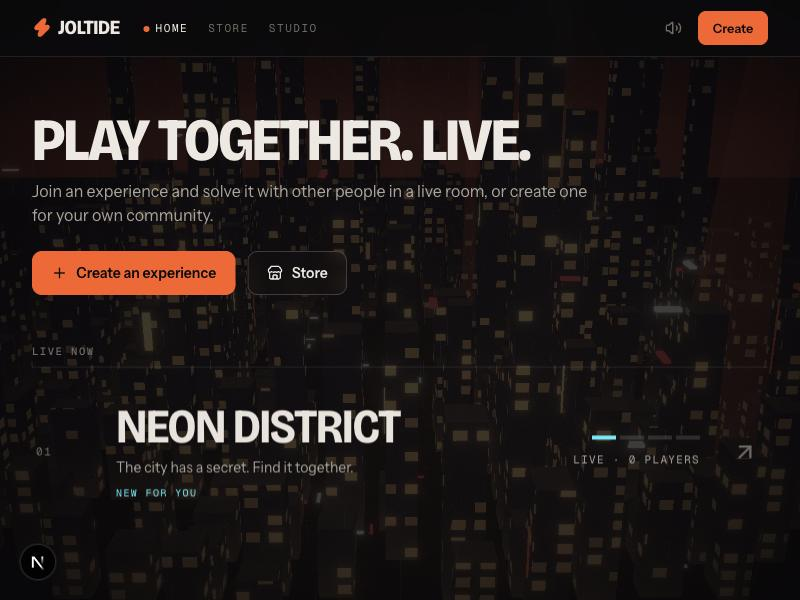
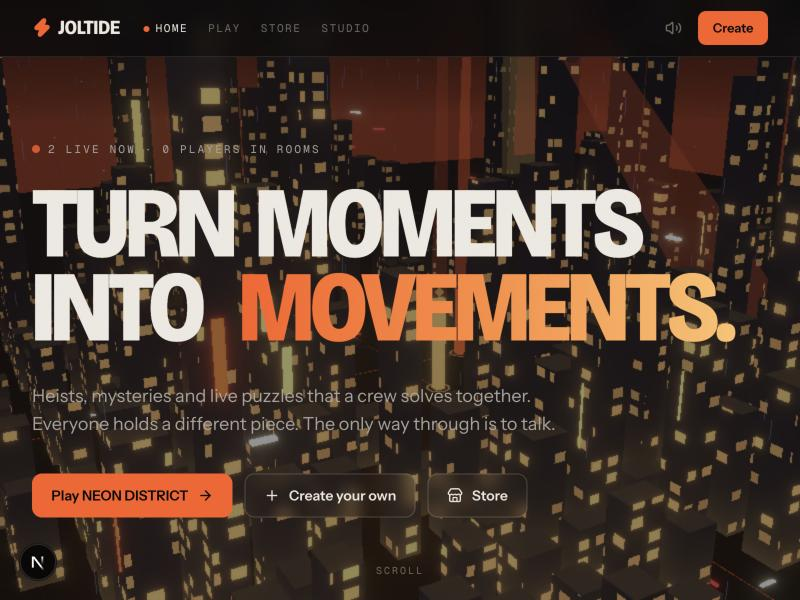
feat(landing): scroll-driven landing page at /, move live experiences to /play

diff --git a/src/components/Landing.tsx b/src/components/Landing.tsx
@@ -1,0 +1,331 @@
+"use client";
+import { motion, useMotionTemplate, useMotionValue, useReducedMotion, useScroll, useSpring, useTransform } from "framer-motion";
+import { ArrowRight, Clock, Eye, KeyRound, Plus, RotateCcw, Sparkles, Store, Users, Wrench } from "lucide-react";
+import Link from "next/link";
+import { useEffect, useState } from "react";
+import { burst } from "@/lib/confetti";
+import { play } from "@/lib/sfx";
+import type { ExperienceCard } from "@/lib/types";
+import RankedRows from "./RankedRows";
+import Scene3D from "./Scene3D";
+
+const TICKER = ["Crew heists", "Four roles", "One clock", "Live chat rooms", "Scheduled drops", "Proof badges", "OBS overlay", "AI world designer", "Remix the store"];
+
+const ROLES = [
+  { name: "Hacker", line: "Cracks the lock", icon: KeyRound, shard: "J" },
+  { name: "Driver", line: "Owns the route", icon: Clock, shard: "O" },
+  { name: "Inside Man", line: "Knows the door", icon: Users, shard: "L" },
+  { name: "Lookout", line: "Sees it coming", icon: Eye, shard: "T" },
+];
+
+const STEPS = [
+  { n: "01", t: "Drop in", d: "Open a live room. Your crew gathers in chat before the clock starts." },
+  { n: "02", t: "Split the truth", d: "Every player is dealt different fragments. Nobody holds the whole answer." },
+  { n: "03", t: "Talk fast", d: "Share clues, argue, vote. The vault only opens when the crew does it together." },
+  { n: "04", t: "Prove it", d: "Beat the clock, climb the leaderboard, keep a signed badge nobody can fake." },
+];
+
+const BENTO = [
+  { icon: Users, t: "Crew runs", d: "Lobby, roles, a heist clock and a leaderboard. Races other crews for the fastest time." },
+  { icon: Clock, t: "Scheduled drops", d: "Open an experience at a set time. The server enforces it, so there are no early peeks." },
+  { icon: Sparkles, t: "AI world designer", d: "Describe a vibe. Claude drafts missions, palette and city. Works offline with a built-in generator." },
+  { icon: Wrench, t: "Studio", d: "Edit stages, publish, schedule, and watch joins and completions in a dashboard." },
+  { icon: Store, t: "Store", d: "Browse, clone and remix experiences from other creators." },
+  { icon: Eye, t: "Stream overlay", d: "A transparent OBS page shows your live run to an audience." },
+];
+
+const PROMPTS = ["A midnight jewel heist across a rainy harbor", "A school-wide scavenger hunt that ends at the gym", "A haunted library only the night shift can solve"];
+
+function Typed() {
+  const reduce = useReducedMotion();
+  const [i, setI] = useState(0);
+  const [n, setN] = useState(0);
+  useEffect(() => {
+    if (reduce) return;
+    const full = PROMPTS[i].length;
+    const t = setTimeout(() => (n < full ? setN(n + 1) : (setN(0), setI((i + 1) % PROMPTS.length))), n < full ? 38 : 1800);
+    return () => clearTimeout(t);
+  }, [n, i, reduce]);
+  return (
+    <span>
+      {reduce ? PROMPTS[0] : PROMPTS[i].slice(0, n)}
+      {!reduce && <span className="ml-0.5 inline-block h-[1em] w-[2px] translate-y-[2px] animate-pulse bg-signal" />}
+    </span>
+  );
+}
+
+function ShardDemo() {
+  const [got, setGot] = useState<boolean[]>([false, false, false, false]);
+  const done = got.every(Boolean);
+  useEffect(() => {
+    if (done) burst(["#ff5a1f", "#ffc46b", "#ede8e0"], "big");
+  }, [done]);
+  const reveal = (k: number) => {
+    play("ok");
+    setGot((prev) => prev.map((v, j) => (j === k ? true : v)));
+  };
+  return (
+    <div>
+      <div className="grid gap-3 sm:grid-cols-4">
+        {ROLES.map((r, k) => {
+          const Icon = r.icon;
+          return (
+            <motion.button
+              key={r.name}
+              onClick={() => reveal(k)}
+              whileHover={{ y: -6 }}
+              whileTap={{ scale: 0.97 }}
+              className={`relative overflow-hidden rounded-xl border p-5 text-left transition-colors ${got[k] ? "border-signal bg-signal/10" : "border-line bg-panel/70 hover:border-line-strong"}`}
+              aria-label={`${r.name}: ${got[k] ? `holds the shard ${r.shard}` : "tap to reveal their shard"}`}
+            >
+              <Icon size={20} className={got[k] ? "text-signal" : "text-dim"} />
+              <div className="display mt-6 text-xl font-bold uppercase leading-none">{r.name}</div>
+              <div className="mt-1 text-sm text-dim">{r.line}</div>
+              <div className="display mt-5 text-6xl font-extrabold leading-none">
+                {got[k] ? (
+                  <motion.span initial={{ scale: 2.4, opacity: 0 }} animate={{ scale: 1, opacity: 1 }} className="inline-block text-signal">
+                    {r.shard}
+                  </motion.span>
+                ) : (
+                  <span className="text-faint">?</span>
+                )}
+              </div>
+            </motion.button>
+          );
+        })}
+      </div>
+      <div className="mt-6 flex flex-wrap items-center justify-between gap-4">
+        <p className="mono text-[11px] uppercase tracking-[0.14em] text-dim" aria-live="polite">
+          {done ? "Vault open. Nobody could do it alone." : `${got.filter(Boolean).length} of 4 shards pooled. Tap each role.`}
+        </p>
+        {done && (
+          <button className="btn btn-sm" onClick={() => setGot([false, false, false, false])}>
+            <RotateCcw size={14} /> Again
+          </button>
+        )}
+      </div>
+    </div>
+  );
+}
+
+function Reveal({ children, delay = 0 }: { children: React.ReactNode; delay?: number }) {
+  return (
+    <motion.div initial={{ opacity: 0, y: 36 }} whileInView={{ opacity: 1, y: 0 }} viewport={{ once: true, margin: "-80px" }} transition={{ duration: 0.7, delay, ease: [0.2, 0.7, 0.2, 1] }}>
+      {children}
+    </motion.div>
+  );
+}
+
+function Words({ text, className, delay = 0 }: { text: string; className?: string; delay?: number }) {
+  return (
+    <span className={className} aria-label={text}>
+      {text.split(" ").map((w, i) => (
+        <span key={i} className="inline-block overflow-hidden pr-[0.22em] align-bottom" aria-hidden>
+          <motion.span className="inline-block" initial={{ y: "110%", rotate: 6 }} animate={{ y: 0, rotate: 0 }} transition={{ duration: 0.9, delay: delay + i * 0.09, ease: [0.2, 0.8, 0.2, 1] }}>
+            {w}
+          </motion.span>
+        </span>
+      ))}
+    </span>
+  );
+}
+
+export default function Landing({ cards }: { cards: ExperienceCard[] }) {
+  const { scrollY } = useScroll();
+  const veil = useTransform(scrollY, [0, 700], [0.58, 0.9]);
+  const lift = useTransform(scrollY, [0, 600], [0, -90]);
+  const mx = useMotionValue(-400);
+  const my = useMotionValue(-400);
+  const sx = useSpring(mx, { stiffness: 120, damping: 20 });
+  const sy = useSpring(my, { stiffness: 120, damping: 20 });
+  const spot = useMotionTemplate`radial-gradient(520px circle at ${sx}px ${sy}px, rgba(255,90,31,0.20), transparent 62%)`;
+
+  const live = cards.filter((c) => c.status === "LIVE");
+  const players = cards.reduce((a, c) => a + c.participants, 0);
+  const first = live[0];
+  const playHref = first ? `/e/${first.id}` : "/play";
+
+  return (
+    <div className="relative isolate overflow-x-clip">
+      <div className="fixed inset-0 -z-10" aria-hidden>
+        <Scene3D accent="#ff5a1f" accent2="#ffc46b" seed={7} stages={["COMPLETED", "ACTIVE", "LOCKED", "LOCKED"]} variant="room" />
+        <motion.div className="absolute inset-0 bg-bg" style={{ opacity: veil }} />
+      </div>
+
+      <section
+        onMouseMove={(e) => {
+          const b = e.currentTarget.getBoundingClientRect();
+          mx.set(e.clientX - b.left);
+          my.set(e.clientY - b.top);
+        }}
+        className="relative flex min-h-[calc(100svh-56px)] flex-col justify-center px-5 py-16 sm:px-8"
+      >
+        <motion.div className="pointer-events-none absolute inset-0" style={{ background: spot }} aria-hidden />
+        <motion.div style={{ y: lift }} className="relative mx-auto w-full max-w-[1300px]">
+          <motion.p initial={{ opacity: 0 }} animate={{ opacity: 1 }} transition={{ delay: 0.1 }} className="mono mb-6 flex items-center gap-2 text-[11px] uppercase tracking-[0.2em] text-dim">
+            <span className="inline-block h-2 w-2 animate-pulse rounded-full bg-signal" />
+            {live.length > 0 ? `${live.length} live now · ${players} ${players === 1 ? "player" : "players"} in rooms` : "Multiplayer experiences for communities"}
+          </motion.p>
+          <h1 className="display text-[clamp(3.2rem,12.5vw,11.5rem)] font-extrabold uppercase leading-[0.84] tracking-[-0.045em]">
+            <Words text="Turn moments" />
+            <br />
+            <Words text="into" delay={0.25} />{" "}
+            <Words text="movements." delay={0.34} className="bg-gradient-to-r from-signal via-[#ff8a3d] to-cyan bg-clip-text text-transparent" />
+          </h1>
+          <motion.p initial={{ opacity: 0, y: 16 }} animate={{ opacity: 1, y: 0 }} transition={{ delay: 1 }} className="mt-8 max-w-xl text-lg text-dim">
+            Heists, mysteries and live puzzles that a crew solves together. Everyone holds a different piece. The only way through is to talk.
+          </motion.p>
+          <motion.div initial={{ opacity: 0, y: 16 }} animate={{ opacity: 1, y: 0 }} transition={{ delay: 1.15 }} className="mt-9 flex flex-wrap gap-3">
+            <Link href={playHref} className="btn btn-primary">
+              {first ? `Play ${first.title}` : "Play now"} <ArrowRight size={16} />
+            </Link>
+            <Link href="/studio" className="btn bg-bg/60 backdrop-blur">
+              <Plus size={16} /> Create your own
+            </Link>
+            <Link href="/market" className="btn bg-bg/60 backdrop-blur">
+              <Store size={16} /> Store
+            </Link>
+          </motion.div>
+        </motion.div>
+        <div className="absolute inset-x-0 bottom-6 flex justify-center">
+          <motion.span animate={{ y: [0, 8, 0] }} transition={{ repeat: Infinity, duration: 1.8 }} className="mono text-[10px] uppercase tracking-[0.2em] text-faint">
+            Scroll
+          </motion.span>
+        </div>
+      </section>
+
+      <div className="overflow-hidden border-y border-line bg-bg/70 py-4 backdrop-blur" aria-hidden>
+        <div className="marquee mono text-[11px] uppercase tracking-[0.2em] text-dim">
+          {[0, 1].map((k) => (
+            <div key={k} className="flex shrink-0 items-center">
+              {TICKER.map((t) => (
+                <span key={t + k} className="flex items-center">
+                  <span className="px-6">{t}</span>
+                  <span className="text-signal">/</span>
+                </span>
+              ))}
+            </div>
+          ))}
+        </div>
+      </div>
+
+      <section className="mx-auto max-w-[1300px] px-5 py-28 sm:px-8" aria-labelledby="how">
+        <Reveal>
+          <h2 id="how" className="label">How a run goes</h2>
+        </Reveal>
+        <ol className="mt-6 border-t border-line">
+          {STEPS.map((s, i) => (
+            <li key={s.n}>
+              <Reveal delay={i * 0.05}>
+                <div className="group grid grid-cols-[auto_1fr] items-baseline gap-x-6 gap-y-2 border-b border-line py-8 sm:grid-cols-[8rem_1fr_1.2fr]">
+                  <span className="display text-5xl font-extrabold text-faint transition-colors group-hover:text-signal sm:text-7xl">{s.n}</span>
+                  <span className="display text-3xl font-extrabold uppercase leading-none sm:text-5xl">{s.t}</span>
+                  <p className="col-span-2 max-w-md text-dim sm:col-span-1">{s.d}</p>
+                </div>
+              </Reveal>
+            </li>
+          ))}
+        </ol>
+      </section>
+
+      <section className="border-y border-line bg-panel/60 py-28 backdrop-blur" aria-labelledby="try">
+        <div className="mx-auto max-w-[1300px] px-5 sm:px-8">
+          <Reveal>
+            <h2 id="try" className="label">Try the mechanic</h2>
+            <p className="display mt-4 max-w-3xl text-4xl font-extrabold uppercase leading-[0.95] sm:text-6xl">Four people. Four shards. One vault.</p>
+            <p className="mt-4 max-w-xl text-dim">This is how every crew run works. Each role holds a different fragment, and the code only exists once the crew pools them. Tap each role to see it happen.</p>
+          </Reveal>
+          <div className="mt-10">
+            <ShardDemo />
+          </div>
+        </div>
+      </section>
+
+      <section className="mx-auto max-w-[1300px] px-5 py-28 sm:px-8" aria-labelledby="built">
+        <Reveal>
+          <h2 id="built" className="label">Everything in the box</h2>
+        </Reveal>
+        <div className="mt-6 grid gap-3 sm:grid-cols-2 lg:grid-cols-3">
+          {BENTO.map((b, i) => {
+            const Icon = b.icon;
+            return (
+              <Reveal key={b.t} delay={(i % 3) * 0.06}>
+                <motion.div whileHover={{ y: -4 }} className="h-full rounded-xl border border-line bg-panel/70 p-6 backdrop-blur transition-colors hover:border-signal/60">
+                  <Icon size={20} className="text-signal" />
+                  <h3 className="display mt-8 text-2xl font-bold uppercase leading-none">{b.t}</h3>
+                  <p className="mt-3 text-sm text-dim">{b.d}</p>
+                </motion.div>
+              </Reveal>
+            );
+          })}
+        </div>
+      </section>
+
+      {cards.length > 0 && (
+        <section className="mx-auto max-w-[1300px] px-5 pb-28 sm:px-8" aria-labelledby="now">
+          <Reveal>
+            <div className="flex items-end justify-between gap-4">
+              <h2 id="now" className="label">Live now</h2>
+              <Link href="/play" className="mono text-[11px] uppercase tracking-[0.14em] text-dim hover:text-ink">All experiences →</Link>
+            </div>
+            <div className="border-b border-line">
+              <RankedRows cards={cards.slice(0, 3)} />
+            </div>
+          </Reveal>
+        </section>
+      )}
+
+      <section className="border-y border-line bg-panel/60 py-28 backdrop-blur" aria-labelledby="make">
+        <div className="mx-auto grid max-w-[1300px] gap-12 px-5 sm:px-8 lg:grid-cols-2">
+          <Reveal>
+            <h2 id="make" className="label">For creators</h2>
+            <p className="display mt-4 text-4xl font-extrabold uppercase leading-[0.95] sm:text-6xl">Describe a vibe. Ship a world.</p>
+            <p className="mt-4 max-w-md text-dim">Type an idea and the designer drafts the stages, the missions and the look. You edit, schedule and publish. Then your community plays.</p>
+            <Link href="/studio" className="btn btn-primary mt-8">
+              Open the studio <ArrowRight size={16} />
+            </Link>
+          </Reveal>
+          <Reveal delay={0.1}>
+            <div className="rounded-xl border border-line bg-bg/80 p-6">
+              <div className="label">Example prompt</div>
+              <p className="display mt-3 min-h-[5.5rem] text-2xl font-bold leading-tight sm:text-3xl" aria-live="off">
+                <Typed />
+              </p>
+              <div className="mt-6 flex flex-wrap gap-2 border-t border-line pt-5">
+                {["Stages", "Missions", "Palette", "City layout", "Roles"].map((c) => (
+                  <span key={c} className="mono rounded-full border border-line-strong px-3 py-1 text-[10px] uppercase tracking-[0.14em] text-dim">{c}</span>
+                ))}
+              </div>
+            </div>
+          </Reveal>
+        </div>
+      </section>
+
+      <section className="relative px-5 py-40 text-center sm:px-8">
+        <Reveal>
+          <p className="display mx-auto max-w-[16ch] text-[clamp(2.8rem,9vw,8rem)] font-extrabold uppercase leading-[0.86] tracking-[-0.04em]">
+            Nobody wins <span className="text-signal">alone.</span>
+          </p>
+          <div className="mt-10 flex flex-wrap justify-center gap-3">
+            <Link href={playHref} className="btn btn-primary">
+              Start a run <ArrowRight size={16} />
+            </Link>
+            <Link href="/studio" className="btn bg-bg/60 backdrop-blur">
+              <Plus size={16} /> Create an experience
+            </Link>
+          </div>
+        </Reveal>
+      </section>
+
+      <footer className="mono border-t border-line bg-bg/80 px-5 py-6 text-[10px] uppercase tracking-[0.14em] text-faint backdrop-blur sm:px-8">
+        <div className="mx-auto flex max-w-[1300px] flex-wrap gap-x-6 gap-y-2">
+          <Link href="/play" className="hover:text-ink">Play</Link>
+          <Link href="/market" className="hover:text-ink">Store</Link>
+          <Link href="/studio" className="hover:text-ink">Studio</Link>
+          <Link href="/proof" className="hover:text-ink">Usage stats</Link>
+          <span className="sm:ml-auto">Chat powered by Nexconn</span>
+        </div>
+      </footer>
+    </div>
+  );
+}

diff --git a/src/app/page.tsx b/src/app/page.tsx
@@ -1,8 +1,8 @@
-import Home from "@/components/Home";
+import Landing from "@/components/Landing";
 import { listCards } from "@/lib/runtime";
 
 export const dynamic = "force-dynamic";
 
 export default async function Page() {
-  return <Home live={await listCards()} />;
+  return <Landing cards={await listCards()} />;
 }

diff --git a/src/app/play/page.tsx b/src/app/play/page.tsx
@@ -1,0 +1,10 @@
+import Home from "@/components/Home";
+import { listCards } from "@/lib/runtime";
+
+export const dynamic = "force-dynamic";
+
+export const metadata = { title: "Play · JOLTIDE" };
+
+export default async function Page() {
+  return <Home live={await listCards()} />;
+}

diff --git a/src/components/Nav.tsx b/src/components/Nav.tsx
@@ -16,6 +16,7 @@ export function Logo({ size = 20 }: { size?: number }) {
 
 const links = [
   { href: "/", label: "Home" },
+  { href: "/play", label: "Play" },
   { href: "/market", label: "Store" },
   { href: "/studio", label: "Studio" },
 ];

diff --git a/README.md b/README.md
@@ -17,7 +17,7 @@
 
 <br />
 
-<img src="docs/screenshots/home.jpg" alt="JOLTIDE home" width="860" />
+<img src="docs/screenshots/home.jpg" alt="JOLTIDE landing page" width="860" />
 
 </div>
 
